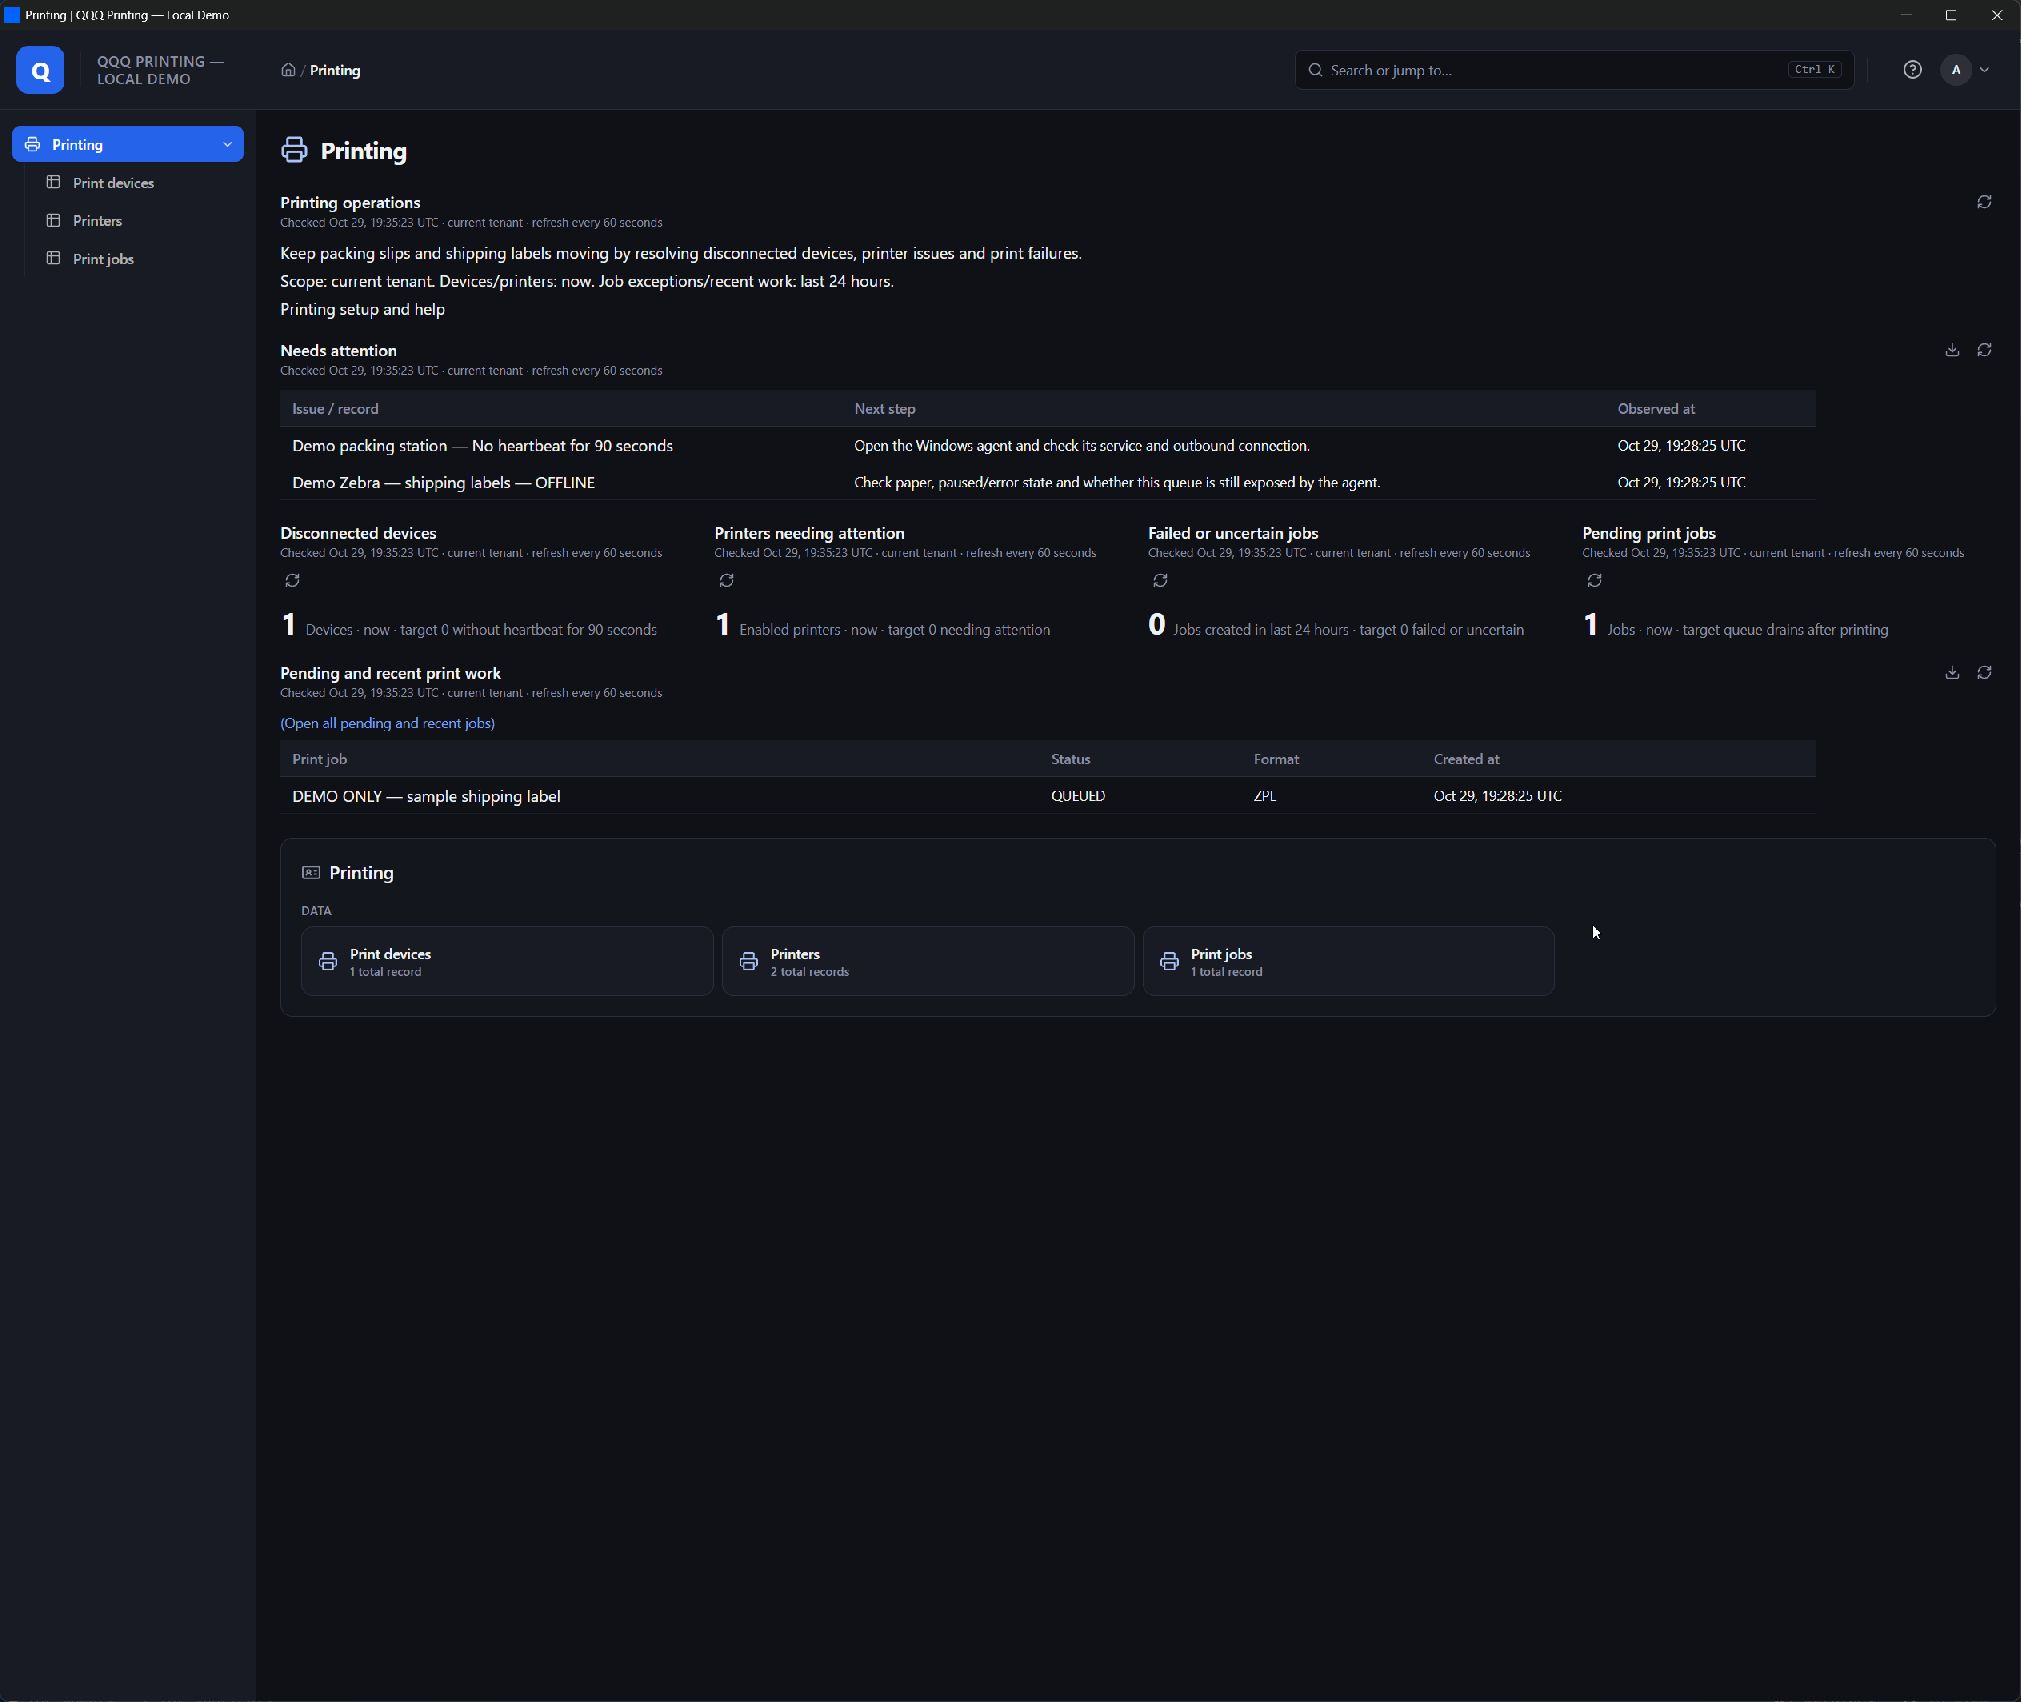
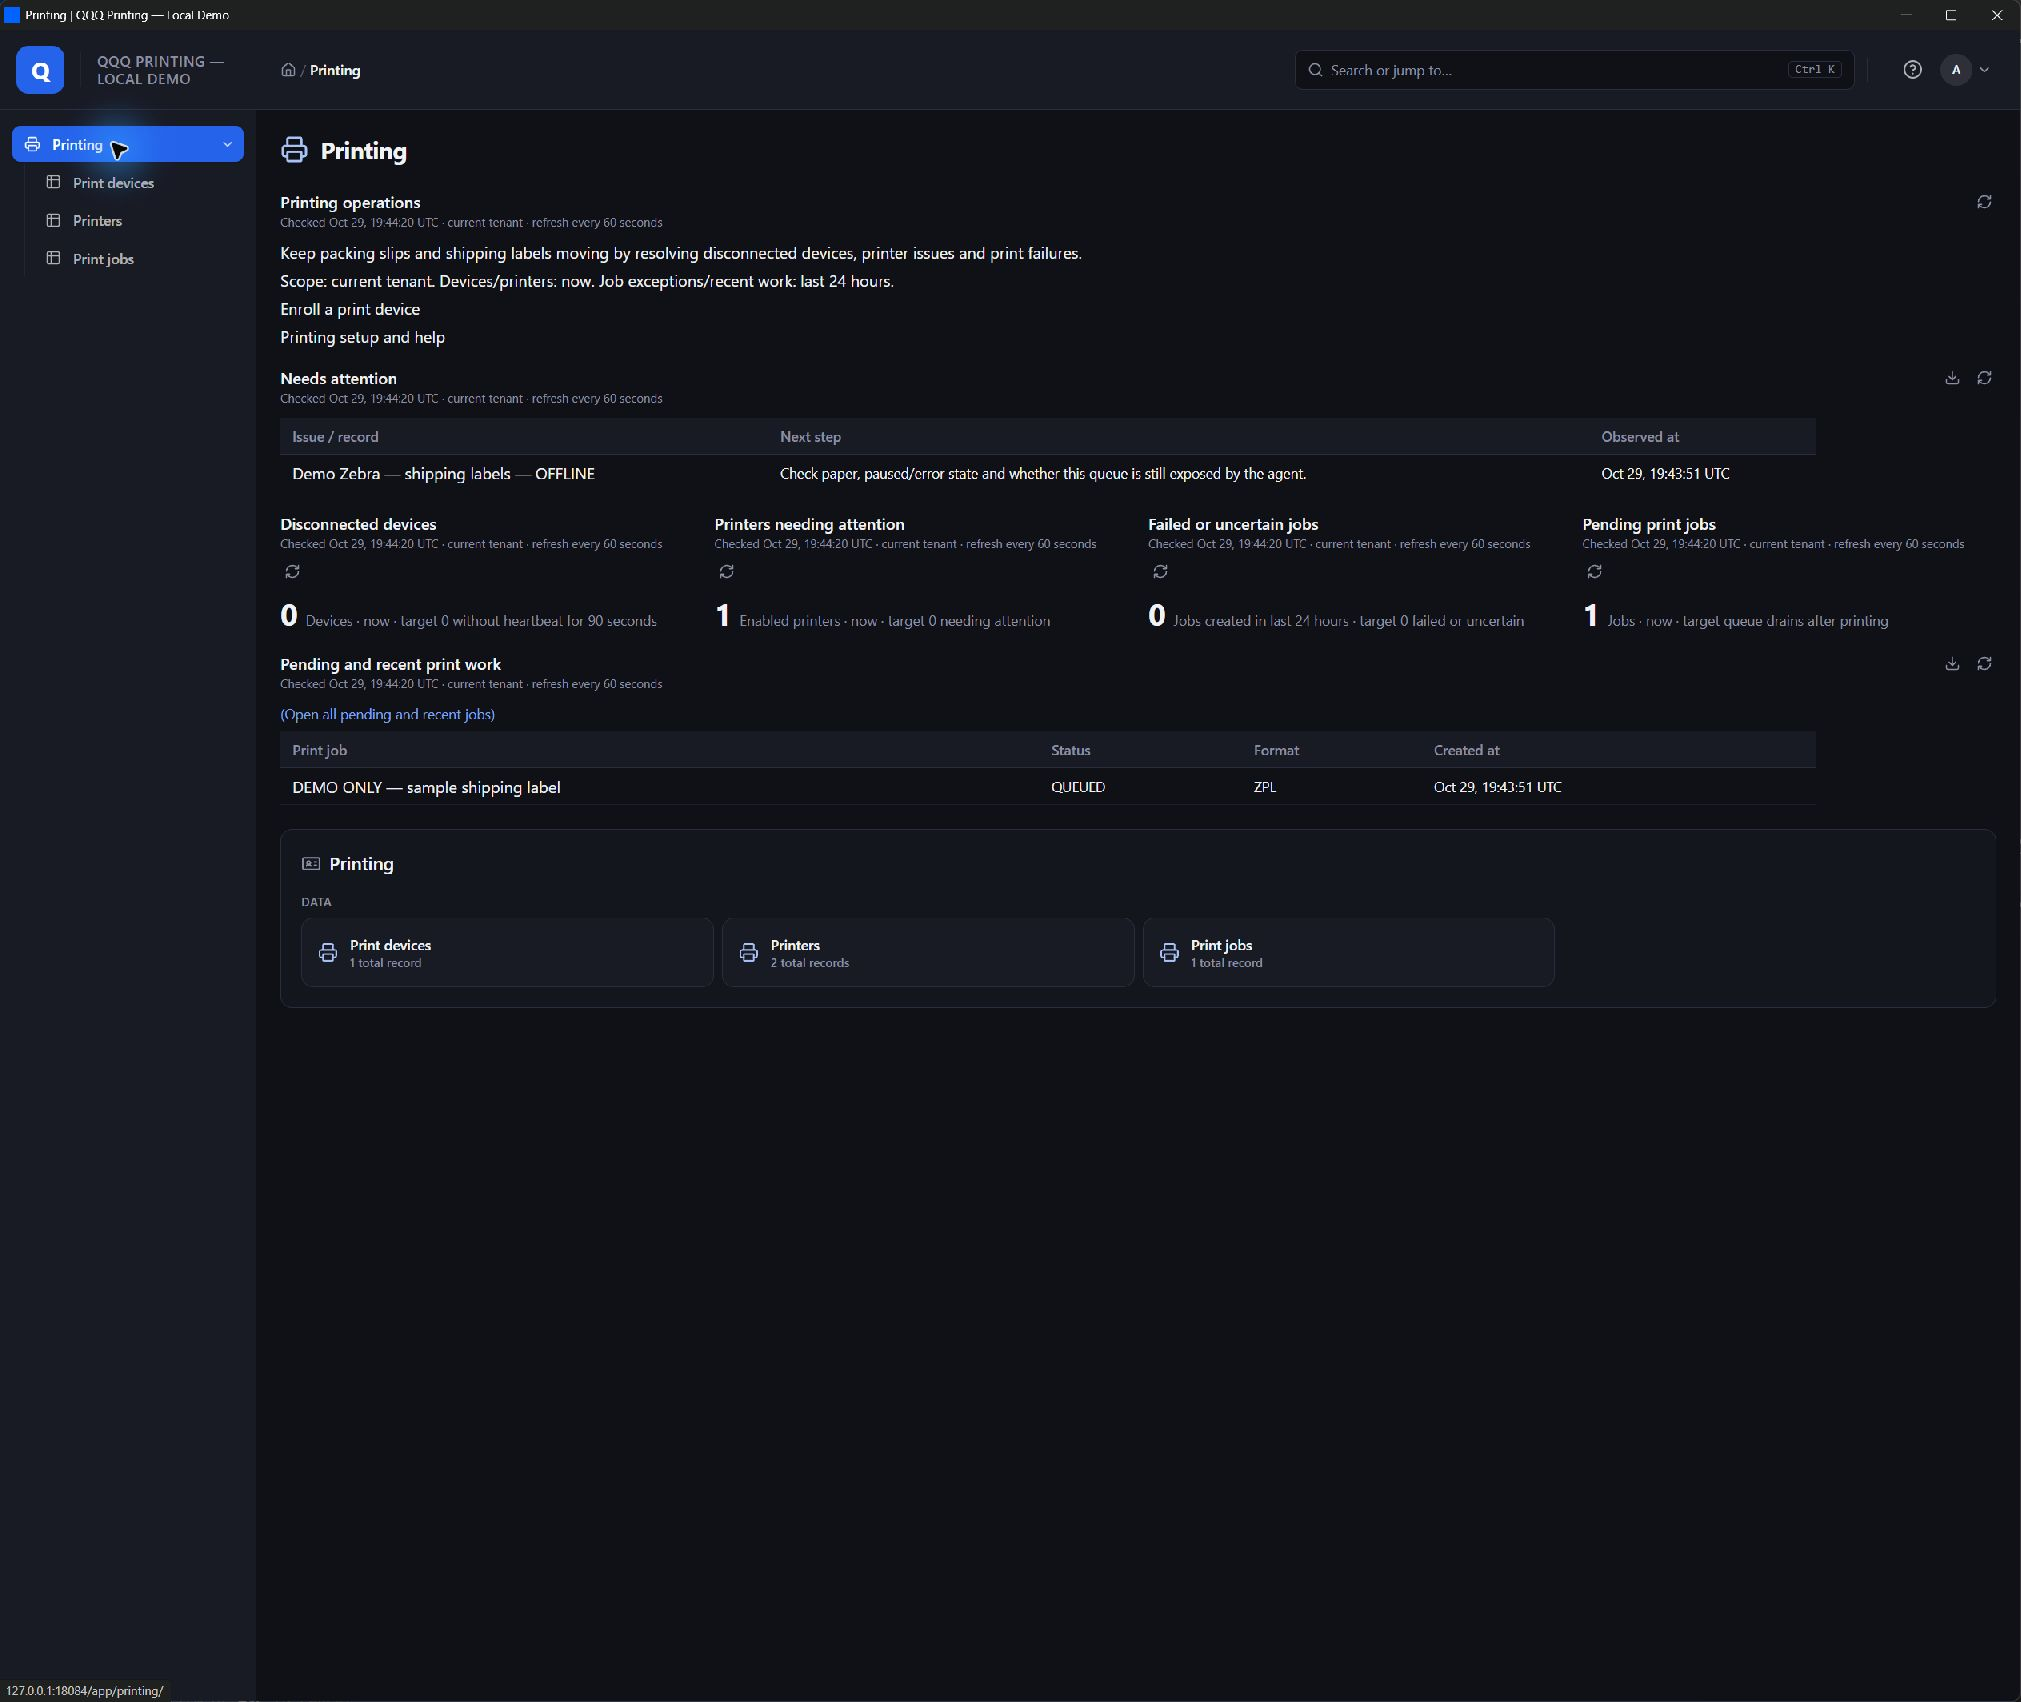
fix: expose device enrollment on the printing home

diff --git a/src/test/java/com/kingsrook/qbits/printing/PrintingHomeTest.java b/src/test/java/com/kingsrook/qbits/printing/PrintingHomeTest.java
@@ -88,6 +88,7 @@ class PrintingHomeTest
          assertEquals(1, ((TableData) render(instance, "printingHomeWork")).getRows().size());
          assertEquals(viewer, QContext.getQSession());
          assertEquals(List.of("tenant-a"), viewer.getSecurityKeyValues("printing_tenant"));
+         assertTrue(JsonUtils.toJson(render(instance, "printingHomeHeader")).contains("/app/printingEnrollDevice/?returnTo=%2Fapp%2Fprinting%2F"));
       }
       finally
       {
@@ -107,7 +108,11 @@ class PrintingHomeTest
       QContext.init(instance, viewer("tenant-empty", true));
       try
       {
-         assertTrue(JsonUtils.toJson(render(instance, "printingHomeHeader")).contains("No print devices are connected"));
+         String header = JsonUtils.toJson(render(instance, "printingHomeHeader"));
+         assertTrue(header.contains("No print devices are connected"));
+         assertTrue(header.contains("/app/printingEnrollDevice/?returnTo=%2Fapp%2Fprinting%2F"));
+         assertEquals(PrintingTables.DEVICE, instance.getProcess("printingEnrollDevice").getTableName());
+         assertEquals(0, instance.getProcess("printingEnrollDevice").getMinInputRecords());
          TableData attention = (TableData) render(instance, "printingHomeAttention");
          assertTrue(attention.getRows().isEmpty());
          assertTrue(attention.getNoRowsFoundHTML().contains("No issues"));

diff --git a/src/main/java/com/kingsrook/qbits/printing/PrintingHome.java b/src/main/java/com/kingsrook/qbits/printing/PrintingHome.java
@@ -148,6 +148,7 @@ public class PrintingHome extends AbstractWidgetRenderer
    {
       CompositeWidgetData data = column().withBlock(text("Keep packing slips and shipping labels moving by resolving disconnected devices, printer issues and print failures."))
          .withBlock(text("Scope: current tenant. Devices/printers: now. Job exceptions/recent work: last 24 hours."))
+         .withBlock(text("Enroll a print device").withLink(new BlockLink("/app/printingEnrollDevice/?returnTo=%2Fapp%2Fprinting%2F")))
          .withBlock(text("Printing setup and help").withLink(new BlockLink("https://github.com/QRun-IO/qbit-printing/blob/main/docs/OPERATIONS.md")));
       if(count(DEVICE, new QQueryFilter()) == 0)
       {
